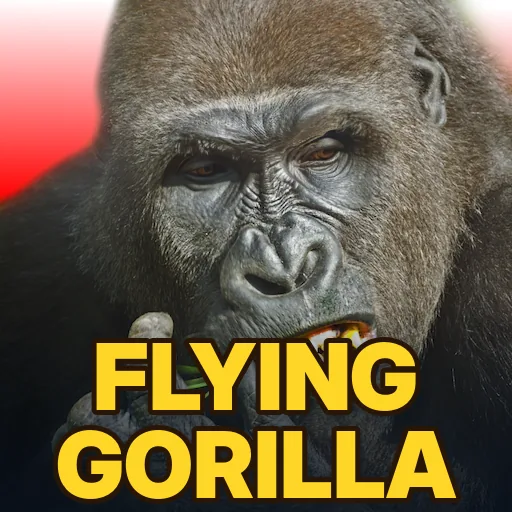
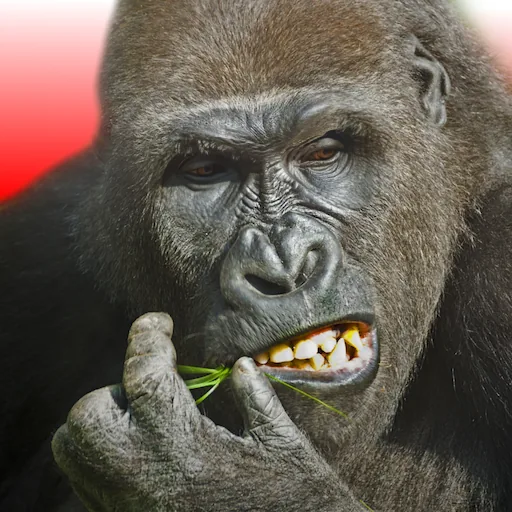
2Web build: use the supplied tile as it is
Claude-Session: https://claude.ai/code/session_01HxepxZVLByupTiSZRw3g7U

Changed region(s): [[0.0938, 0.625, 0.9688, 1.0]]

diff --git a/2web/make_pictures.py b/2web/make_pictures.py
@@ -4,8 +4,7 @@
     python3 2web/make_pictures.py
 
 - cover.jpg  (1280x720): art/cover-source.jpg as it is (already has the title, centre is clear).
-- thumb.webp (512x512):  art/tile-source.png with the title added along the bottom, because
-                         2Web tiles must show the game's title readable at 100 px.
+- thumb.webp (512x512):  art/tile-source.png as it is, re-encoded as WebP.
 Needs Pillow and the Inter Display Black font (any heavy sans works; change FONT).
 """
 import os, shutil
@@ -41,8 +40,6 @@ def main():
 
     thumb = Image.open(os.path.join(ART, 'tile-source.png')).convert('RGB')
     assert thumb.size == (512, 512), thumb.size
-    bottom_band(thumb, 300, 215)
-    title(thumb, 'FLYING\nGORILLA', 92, 256, 420, 5)
     thumb.save(os.path.join(HERE, 'thumb.webp'), quality=82, method=6)
 
     for f, limit in (('cover.jpg', 300_000), ('thumb.webp', 150_000)):

diff --git a/2web/README.md b/2web/README.md
@@ -21,5 +21,5 @@ What it does to the export:
   - stores saves under `flying-gorilla:` IndexedDB names;
   - logs the version and exposes `window.__game`.
 
-`make_pictures.py` makes `cover.jpg` and `thumb.webp` from the source art in `art/` (the tile gets the title added).
+`make_pictures.py` makes `cover.jpg` and `thumb.webp` from the source art in `art/`, unchanged.
 To release an update, bump `version` in `2web.json` and rebuild.
